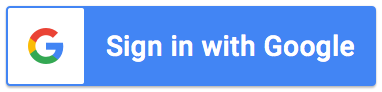
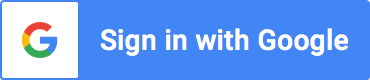
improved ux of signin process

Changed region(s): [[0.0, 0.0, 1.0, 1.0], [0.2676, 0.35, 0.9514, 0.7], [0.0595, 0.275, 0.1784, 0.725]]

diff --git a/apps/expo/src/screens/Welcome.tsx b/apps/expo/src/screens/Welcome.tsx
@@ -1,14 +1,19 @@
 import * as AppleAuthentication from "expo-apple-authentication";
 import { signIn } from "next-auth/expo";
-import React from "react";
-import { Image, Pressable, View } from "react-native";
+import React, { useState } from "react";
+import { ActivityIndicator, Image, Pressable, View } from "react-native";
 import { useAppColorScheme } from "twrnc";
 import { appleLogin, googleLogin } from "../components/AuthProvider";
 import ModalLayout from "../components/ModalLayout";
-import { PrimaryText, SpecialText } from "../components/Themed";
+import {
+  PrimaryText,
+  SpecialText,
+  specialTextColor,
+} from "../components/Themed";
 import tw from "../tailwind";
 
 export const Welcome = () => {
+  const [isSigningIn, setIsSigningIn] = useState(false);
   const [colorScheme] = useAppColorScheme(tw);
   return (
     <ModalLayout>
@@ -24,26 +29,42 @@ export const Welcome = () => {
           Sign in with one of the options below. You will be asked to grant
           permission for the app to send notifications to your device.
         </PrimaryText>
-        <Pressable
-          style={tw`mx-auto pt-9`}
-          onPress={() => signIn(() => googleLogin())}
-        >
-          <Image
-            style={tw`w-[191px] h-[46px]`}
-            source={require("../../assets/google_signin_buttons/btn_google_signin_dark_normal_web.png")}
+        {!isSigningIn ? (
+          <>
+            <Pressable
+              style={tw`mx-auto pt-9 active:opacity-10`}
+              onPress={async () => {
+                setIsSigningIn(true);
+                await signIn(() => googleLogin());
+                setIsSigningIn(false);
+              }}
+            >
+              <Image
+                style={tw`w-[200px] h-[43.24px]`}
+                source={require("../../assets/google_signin_buttons/btn_google_signin_dark_normal_web.png")}
+              />
+            </Pressable>
+            <AppleAuthentication.AppleAuthenticationButton
+              buttonType={
+                AppleAuthentication.AppleAuthenticationButtonType.SIGN_IN
+              }
+              buttonStyle={
+                colorScheme === "dark"
+                  ? AppleAuthentication.AppleAuthenticationButtonStyle.WHITE
+                  : AppleAuthentication.AppleAuthenticationButtonStyle.BLACK
+              }
+              cornerRadius={1}
+              style={tw`mx-auto mt-9 w-[200px] h-[43.24px] active:opacity-10`}
+              onPress={() => signIn(() => appleLogin())}
+            />
+          </>
+        ) : (
+          <ActivityIndicator
+            style={tw`pt-9`}
+            size="large"
+            color={String(tw.style(specialTextColor).color)}
           />
-        </Pressable>
-        <AppleAuthentication.AppleAuthenticationButton
-          buttonType={AppleAuthentication.AppleAuthenticationButtonType.SIGN_IN}
-          buttonStyle={
-            colorScheme === "dark"
-              ? AppleAuthentication.AppleAuthenticationButtonStyle.WHITE
-              : AppleAuthentication.AppleAuthenticationButtonStyle.BLACK
-          }
-          cornerRadius={2}
-          style={tw`mx-auto mt-9 w-[185px] h-[41px]`}
-          onPress={() => signIn(() => appleLogin())}
-        />
+        )}
       </View>
     </ModalLayout>
   );
